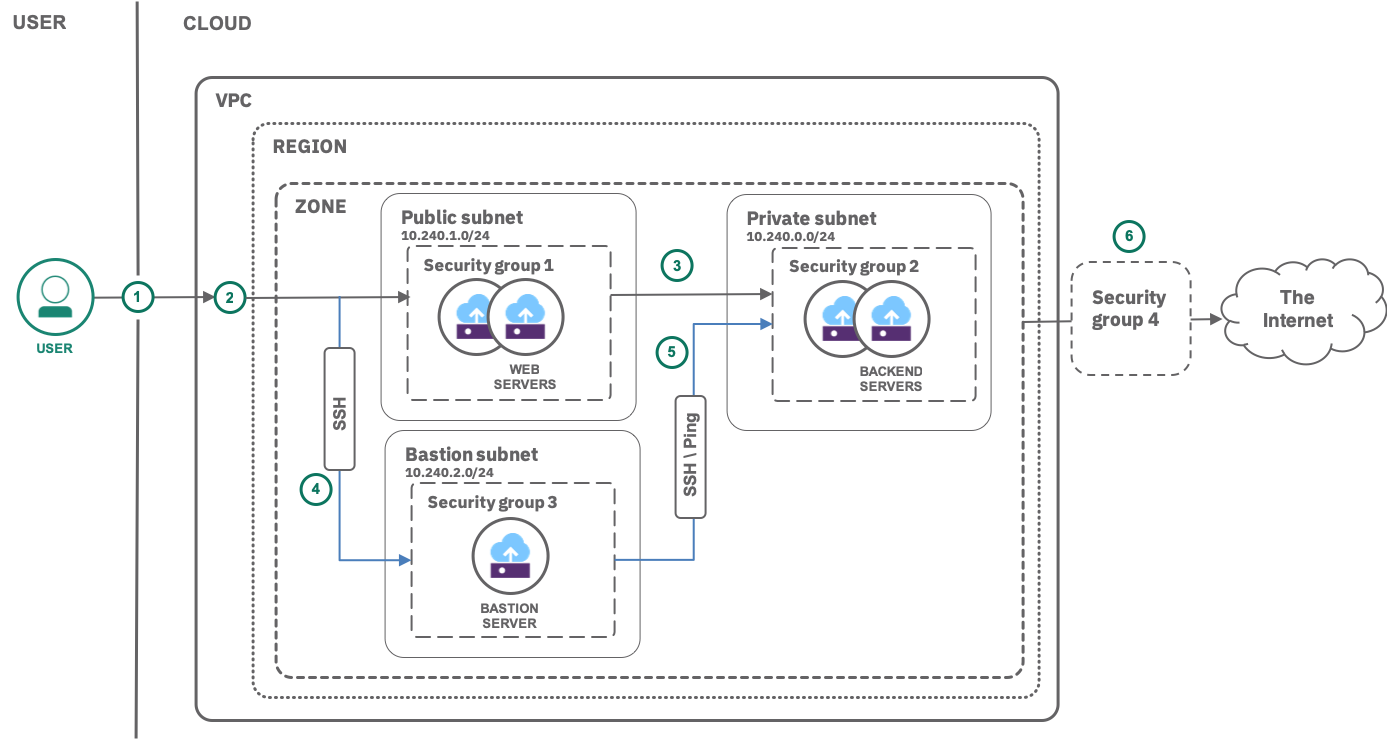
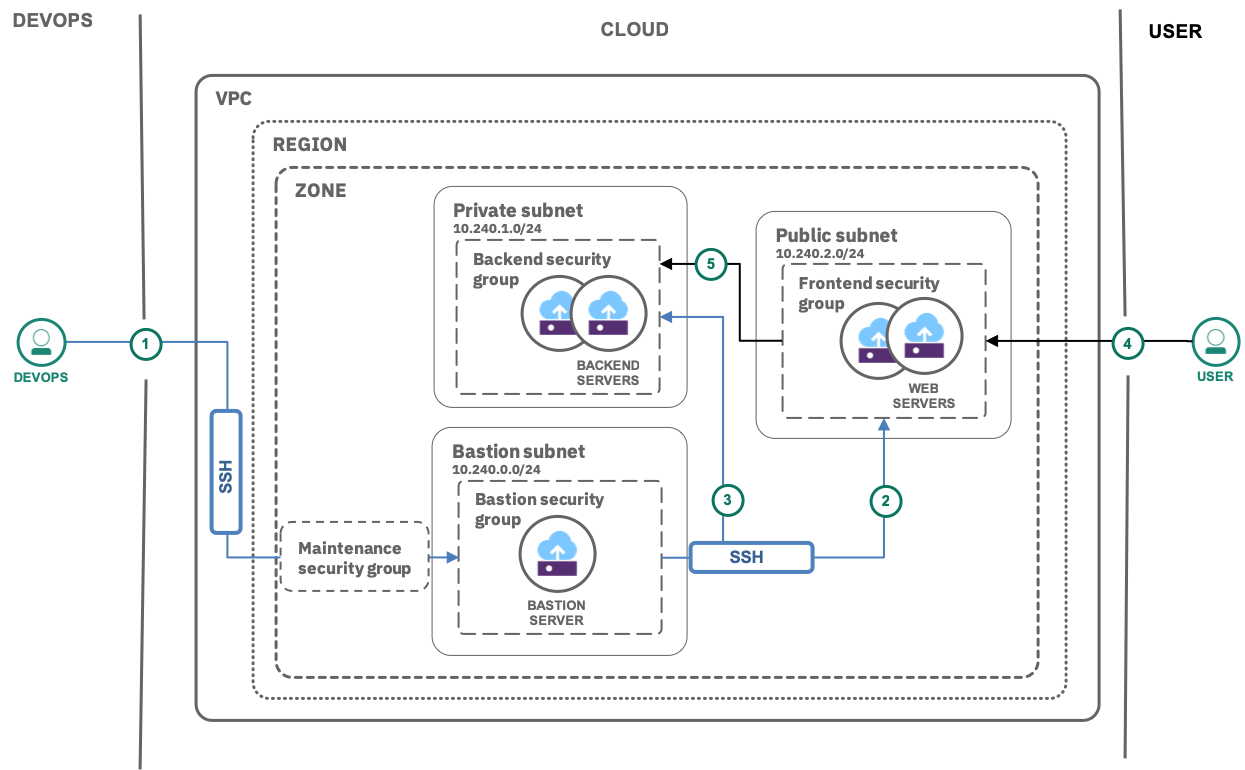
sol 40: Updated architecture diagram

diff --git a/vpc-public-app-private-backend.md b/vpc-public-app-private-backend.md
@@ -34,11 +34,12 @@ In short, using VPC you can
 
 {: #objectives}
 
-- Create a public subnet for frontend servers
-- Create a private subnet for backend servers
-- Create virtual server instances in each subnet, including a bastion server
+- Create a public subnet with frontend servers
+- Create a private subnet with backend servers
+- Create virtual server instances in each subnet
+- Create and configure a bastion host to connect to frontend and backend for maintenance
 - Configure network rules through security groups
-- Reserve a floating IP to allow inbound and outbound internet traffic
+- Reserve floating IP addresses to allow inbound and outbound internet traffic
 
 ## Services used
 
@@ -57,12 +58,11 @@ This tutorial may incur costs. Use the [Pricing Calculator](https://{DomainName}
 ![Architecture](images/solution40-vpc-public-app-private-backend/Architecture.png)
 
 
-1. After setting up the required infrastructure (subnets, security groups with rules, VSIs) on the cloud, the user assigns a security group with proper outbound rules to the instances to connect to the internet for installing or updating software.
-2. Connects to the bastion server using the private SSH key.
-3. Connects securely to the frontend instance's **public IP address** via bastion server to install or update any required frontend software e.g.,a web server.
-4. Connects securely to the backend instance's **private IP address** via bastion server to install or update any required backend software e.g.,a database server
-5. The internet user connects to web server on frontend. 
-6. Frontend requests private resources from secured backend and serves results to user.
+1. After setting up the required infrastructure (subnets, security groups with rules, VSIs) on the cloud, the admin(DevOps) assigns a maintenance security group with proper outbound rules and connects(SSH) to the bastion server using the private SSH key.
+2. Connects securely to the frontend instance's **public IP address** via bastion server to install or update any required frontend software e.g.,a web server.
+3. Connects securely to the backend instance's **private IP address** via bastion server to install or update any required backend software e.g.,a database server
+4. The internet user connects to web server on frontend. 
+5. Frontend requests private resources from secured backend and serves results to user.
 
 ## Before you begin
 
